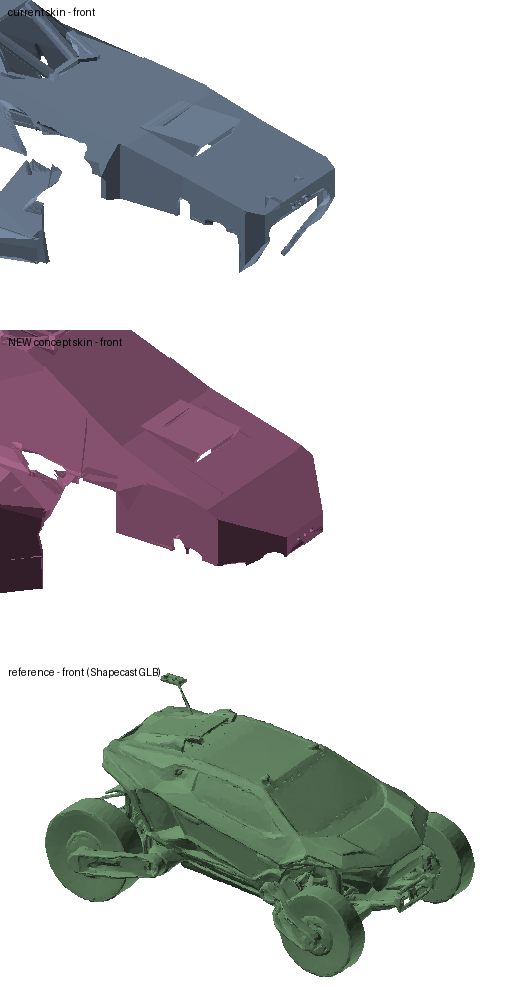
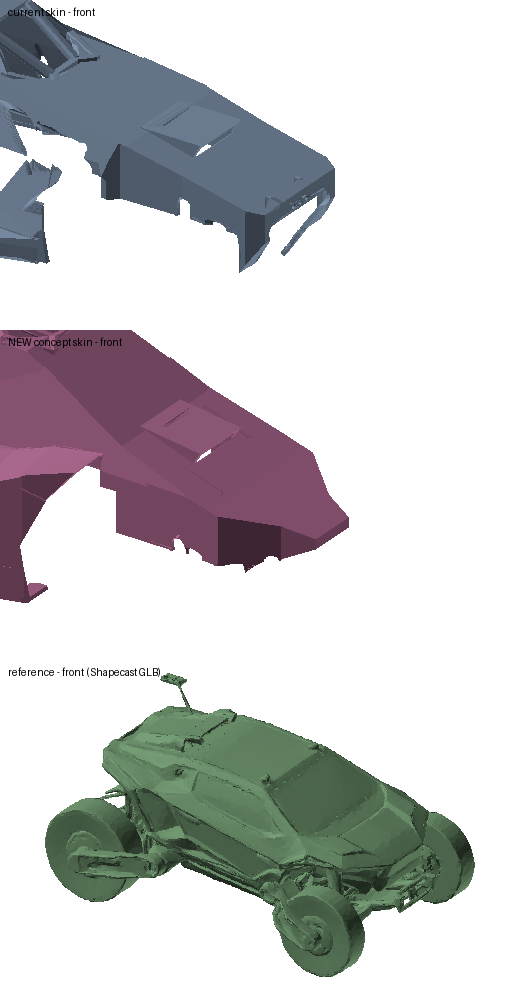
Concept skin rev 4: nose beak to x 55, shoulder shelf from x -85, gap scan; frame/hardware verified unchanged; 132 tests pass, swing clean to 35 deg

Changed region(s): [[0.0, 0.4242, 0.2154, 0.6061], [0.4308, 0.4848, 0.6769, 0.5758], [0.5846, 0.4545, 0.6154, 0.4848]]

diff --git a/ws02/body3_build.py b/ws02/body3_build.py
@@ -37,8 +37,8 @@ SEC_TOP = (35.0, 110.0)                                 # (half width, z) of the
 if CONCEPT:                                           # rev 3: reference silhouette (drawings 54/55, tools_skin/ref_outline.py)
     DECK_DZ = 22.0                                      # the rear deck is this much higher than the old one (the wing is lifted with it)
     TAIL = _pts([(-299.0, 50.0), (-341.5, 66.4)]) + [(-438.1, 83.3 + DECK_DZ)]
-    SIDE = [(34, 40), (34, 27), NOSE_LOW] + ARC + TAIL[1:] + [(-327.0, 100.4 + DECK_DZ), (-290.0, 130.0), (-151.0, 124.0), (-72.0, 84.0), (-5.0, 62.0)]   # low raked nose, raked windscreen, tall cabin roof, high hunched deck
-    HALF = [(34, 20), (3.5, 52), (-52, 52), (-123, 60), (-150, 90), (-205, 92)] + HALF[7:]      # chisel nose, narrow hood over the arm sweep, shoulder flare behind it, flat wide pods
+    SIDE = [(55, 44), (55, 37), (34, 27), NOSE_LOW] + ARC + TAIL[1:] + [(-327.0, 100.4 + DECK_DZ), (-290.0, 130.0), (-151.0, 124.0), (-72.0, 84.0), (-5.0, 62.0)]   # low raked nose, raked windscreen, tall cabin roof, high hunched deck
+    HALF = [(55, 18), (34, 26), (3.5, 52), (-52, 52), (-123, 60), (-150, 90), (-205, 92)] + HALF[7:]      # chisel nose, narrow hood over the arm sweep, shoulder flare behind it, flat wide pods
     TENT_K = 30.0 / 139.3                               # steeper flanks: 38 mm half width still at z 130
     SEC_TOP = (68.0 - TENT_K * 144.3, 135.0)
     SECTION = [(-68, -40), (68, -40), (68, -9.3), (SEC_TOP[0], SEC_TOP[1]), (-SEC_TOP[0], SEC_TOP[1]), (-68, -9.3)]
@@ -94,7 +94,7 @@ def _hull_sections(xs, polys):
 POD = [(-122.0, 68.0, -9.3), (-176.0, 86.0, -9.0), (-293.0, 70.0, -11.0), (-365.0, 76.5, -15.0), (-382.0, 62.0, -15.0)]   # side pod stations (x, outer |y|, top z): the waist line peaks at x -176, flares out at the rear and tapers down
 SHOULDER = dict(stations=[(-440.0, 1.0), (-300.0, 1.0), (-120.0, 0.25)], z0=50.0, z1=58.0, depth=6.0)
 if CONCEPT:
-    POD = [(-123.0, 62.0, 30.0), (-150.0, 92.0, 46.0), (-205.0, 92.0, 50.0), (-293.0, 92.0, 52.0), (-335.0, 86.0, 46.0), (-365.0, 76.5, -15.0), (-382.0, 62.0, -15.0)]   # rear pods with a shoulder plane at z 46..52
+    POD = [(-85.0, 66.0, 76.0), (-123.0, 84.0, 70.0), (-150.0, 92.0, 60.0), (-205.0, 92.0, 52.0), (-293.0, 92.0, 52.0), (-335.0, 86.0, 46.0), (-365.0, 76.5, -15.0), (-382.0, 62.0, -15.0)]   # rear pods with a shoulder plane stepping down from the cowl (arm arches are cut out of it by the window cut)
 
 if CONCEPT:
     SHOULDER = dict(stations=[(-440.0, 1.0), (-250.0, 1.0), (-100.0, 0.3)], z0=50.0, z1=58.0, depth=6.0)   # shoulder crease: full at the rear, tapering to nothing toward the front

diff --git a/ws02/tools_skin/render_compare.py b/ws02/tools_skin/render_compare.py
@@ -130,6 +130,14 @@ def main(out):
         rows.append(f"| {x} | {hc:.0f} | {hn:.0f} | {R.half(x):.0f} | {zc:.0f} | {zn:.0f} | {R.top(x):.0f} |")
     for nm, m in (("current", cur), ("new", con)):
         e = m.bounds; rows.append(f"| bbox {nm} | L {e[1][0]-e[0][0]:.0f} W {e[1][1]-e[0][1]:.0f} H {e[1][2]-e[0][2]:.0f} | | | | | |")
+    def summ(m):
+        v = m.vertices; k = v[(v[:, 0] < -150) & (v[:, 0] > -290)]; d = v[(v[:, 0] < -380) & (v[:, 0] > -420)]
+        return dict(L=np.ptp(v[:, 0]), W=np.ptp(v[:, 1]), H=v[:, 2].max() + 26.0, nose=v[:, 0].max(), canopy=k[:, 2].max(), deck=d[:, 2].max())
+    sc_, sn_ = summ(cur), summ(con)
+    ref_ = dict(L=55 + 468, W=182, H=130 + 26.0, nose=55, canopy=130, deck=R.top(-400))
+    rows += ["", "| dimension (mm) | before | new | reference |", "|---|---|---|---|"]
+    for key, nm in (("L", "length"), ("W", "width"), ("H", "height above floor"), ("nose", "nose tip x"), ("canopy", "canopy top z"), ("deck", "deck z at x -400")):
+        rows.append(f"| {nm} | {sc_[key]:.0f} | {sn_[key]:.0f} | {ref_[key]:.0f} |")
     open(out / "table.md", "w").write(chr(10).join(rows)); print(chr(10).join(rows))
 
 

diff --git a/ws02/WS03_CLEARANCE.md b/ws02/WS03_CLEARANCE.md
@@ -2,98 +2,98 @@
 
 Poses: lean/steer [(0.0, 0.0), (20.0, 17.0), (-20.0, -17.0)]. Pairs closer than 0.3 mm that are not declared as mated:
 
-- mock_cdiff_ring / w3_cring_hub: 0.00 mm
-- w3_motor_plate / b_motor: 0.00 mm
 - w3_rring_hub / b_rear_ring: 0.00 mm
+- mock_cdiff_ring / w3_cring_hub: 0.00 mm
 - mock_cdiff_carrier / w3_cring_hub: 0.01 mm
-- w3_skid / w3_ballast_carrier: 0.01 mm
+- w3_frame_front / w3_uplink_standoff_1: 0.01 mm
 - w3_pillow_lower / w3_pillow_upper: 0.01 mm
-- battery_tray_c / b_battery: 0.02 mm
-- w3_frame_front / w3_uplink_standoff_1: 0.02 mm
-- lean_mount_c / lean_horn_c: 0.02 mm
-- lean_mount_c / w3_deck_front: 0.02 mm
-- lean_mount_c / lean_ears_c: 0.02 mm
-- w3_rbc_lower / w3_rbc_upper: 0.02 mm
-- w3_deck_front / w3_deck_rear: 0.03 mm
-- w3_fdc_lower / w3_fdc_upper: 0.03 mm
+- w3_motor_plate / b_motor: 0.01 mm
+- lean_mount_c / lean_ears_c: 0.01 mm
+- battery_tray_c / b_battery: 0.01 mm
+- w3_skid / w3_ballast_carrier: 0.02 mm
+- w3_cdc_lower / w3_cdc_upper: 0.03 mm
 - w3_frame_front / w3_uplink_standoff_-1: 0.03 mm
-- battery_tray_c / w3_deck_front: 0.03 mm
-- w3_tail_main / w3_tail_right: 0.04 mm
-- body3_mid / body3_rear: 0.05 mm
-- w3_cdc_lower / w3_cdc_upper: 0.05 mm
+- w3_rbc_lower / w3_rbc_upper: 0.03 mm
+- w3_fdc_lower / w3_fdc_upper: 0.04 mm
 - w3_cring_hub / b_front_pinion_shaft: 0.05 mm
-- w3_deck_rear / w3_deck_tail: 0.06 mm
-- body3_front / body3_mid: 0.07 mm
-- w3_frame_front / w3_frame_rear: 0.07 mm
-- mock_bearing_x / w3_cdc_upper: 0.08 mm
-- mock_bearing_ry / w3_rbc_lower: 0.08 mm
-- mock_bearing_x / w3_fdc_lower: 0.08 mm
-- mock_bearing_x / w3_cdc_lower: 0.08 mm
+- w3_deck_rear / w3_deck_tail: 0.05 mm
+- battery_tray_c / w3_deck_front: 0.06 mm
+- lean_mount_c / lean_horn_c: 0.06 mm
+- lean_mount_c / w3_deck_front: 0.06 mm
+- arm_-1 / mock_fbelt_-1: 0.07 mm
+- w3_rring_hub / b_rear_shaft: 0.07 mm
+- w3_tail_main / w3_tail_right: 0.07 mm
+- w3_deck_front / w3_deck_rear: 0.08 mm
+- mock_bearing_x / w3_fdc_upper: 0.08 mm
 - mock_bearing_x / w3_pillow_lower: 0.08 mm
-- w3_deck_tail / w3_frame_rear: 0.08 mm
-- mock_bearing_x / w3_pillow_upper: 0.08 mm
 - mock_bearing_ry / w3_rbc_upper: 0.08 mm
-- mock_bearing_x / w3_rbc_upper: 0.08 mm
-- mock_bearing_fy / w3_fdc_lower: 0.09 mm
-- mock_bearing_x / w3_fdc_upper: 0.09 mm
+- mock_bearing_x / w3_fdc_lower: 0.08 mm
+- mock_bearing_fy / w3_fdc_lower: 0.08 mm
+- mock_bearing_ry / w3_rbc_lower: 0.08 mm
+- mock_bearing_x / w3_pillow_upper: 0.08 mm
+- mock_bearing_x / w3_cdc_lower: 0.08 mm
+- mock_bearing_x / w3_cdc_upper: 0.08 mm
+- mock_bearing_fy / w3_fdc_upper: 0.08 mm
 - mock_bearing_x / w3_rbc_lower: 0.09 mm
-- mock_bearing_fy / w3_fdc_upper: 0.09 mm
-- w3_deck_rear / w3_frame_rear: 0.09 mm
-- w3_rring_hub / b_rear_shaft: 0.10 mm
-- uplink_1 / w3_uplink_standoff_1: 0.10 mm
+- mock_bearing_x / w3_rbc_upper: 0.09 mm
+- w3_deck_front / w3_frame_front: 0.10 mm
 - uplink_-1 / w3_uplink_standoff_-1: 0.10 mm
+- uplink_1 / w3_uplink_standoff_1: 0.10 mm
 - battery_tray_c / w3_fdc_lower: 0.10 mm
-- arm_1 / mock_fbelt_1: 0.11 mm
-- w3_tail_hanger_left / body3_rear: 0.11 mm
-- w3_fdc_lower / w3_frame_front: 0.11 mm
-- arm_-1 / mock_fbelt_-1: 0.12 mm
-- arm_-1 / pod_-1: 0.12 mm
-- w3_rbc_lower / w3_frame_rear: 0.13 mm
+- w3_tail_hanger_right / body3_rear: 0.12 mm
+- steer_servo_-1 / w3_frame_front: 0.13 mm
+- arm_-1 / pod_-1: 0.13 mm
 - arm_1 / pod_1: 0.14 mm
-- w3_tail_hanger_right / body3_rear: 0.14 mm
-- w3_tail_main / w3_tail_hanger_left: 0.15 mm
+- w3_tail_hanger_left / body3_rear: 0.14 mm
+- w3_tail_main / w3_tail_hanger_left: 0.14 mm
+- steer_servo_1 / w3_frame_front: 0.15 mm
 - w3_tail_main / w3_tail_hanger_right: 0.15 mm
-- steer_servo_-1 / w3_frame_front: 0.17 mm
-- steer_servo_1 / w3_frame_front: 0.19 mm
+- w3_frame_front / w3_frame_rear: 0.18 mm
+- w3_fdc_lower / w3_frame_front: 0.20 mm
 - mock_bearing_x / w3_cring_hub: 0.20 mm
-- w3_pillow_upper / b_rear_shaft: 0.20 mm
+- arm_1 / mock_fbelt_1: 0.20 mm
+- w3_rbc_lower / w3_frame_rear: 0.20 mm
+- mock_xover_pin_Pa / w3_cdc_upper: 0.20 mm
 - w3_deck_front / w3_skid: 0.20 mm
+- w3_fdc_upper / b_front_pinion_shaft: 0.20 mm
 - w3_pillow_lower / b_rear_shaft: 0.20 mm
-- w3_cdc_upper / b_rear_shaft: 0.20 mm
-- w3_rbc_lower / b_rear_shaft: 0.20 mm
-- w3_deck_front / w3_frame_front: 0.20 mm
-- mock_xover_pin_Pa / w3_cdc_upper: 0.21 mm
-- w3_fdc_upper / b_front_pinion_shaft: 0.21 mm
-- w3_fdc_lower / b_front_pinion_shaft: 0.21 mm
-- w3_rbc_upper / b_rear_shaft: 0.21 mm
-- mock_xover_pin_Pb / w3_cdc_upper: 0.21 mm
-- w3_cdc_upper / b_front_pinion_shaft: 0.21 mm
-- w3_cdc_lower / b_rear_shaft: 0.21 mm
+- w3_pillow_upper / b_rear_shaft: 0.20 mm
+- w3_fdc_lower / b_front_pinion_shaft: 0.20 mm
+- steer_servo_-1 / w3_deck_front: 0.20 mm
 - w3_cdc_upper / b_motor_shaft: 0.21 mm
-- steer_servo_-1 / w3_deck_front: 0.21 mm
-- w3_cdc_lower / b_front_pinion_shaft: 0.22 mm
+- w3_rbc_upper / b_rear_shaft: 0.21 mm
+- w3_rbc_lower / b_rear_shaft: 0.21 mm
+- steer_servo_1 / w3_deck_front: 0.21 mm
+- w3_cdc_lower / b_front_pinion_shaft: 0.21 mm
+- w3_cdc_lower / b_rear_shaft: 0.21 mm
+- w3_deck_rear / w3_frame_rear: 0.21 mm
 - mock_rear_axle / w3_rear_arm: 0.22 mm
-- arm_-1 / mock_fpulley_pivot_-1: 0.25 mm
-- arm_1 / mock_fpulley_pivot_1: 0.25 mm
+- w3_cdc_upper / b_rear_shaft: 0.22 mm
+- w3_cdc_upper / b_front_pinion_shaft: 0.22 mm
+- mock_xover_pin_Pb / w3_cdc_upper: 0.22 mm
+- w3_deck_tail / w3_frame_rear: 0.22 mm
+- battery_tray_c / w3_frame_front: 0.24 mm
 - mock_rear_pulley_pivot / w3_rear_arm: 0.25 mm
-- mock_rear_pulley_axle / w3_rear_arm: 0.25 mm
-- arm_1 / mock_fpulley_tip_1: 0.25 mm
 - arm_-1 / mock_fpulley_tip_-1: 0.25 mm
-- steer_servo_1 / w3_deck_front: 0.26 mm
+- mock_rear_pulley_axle / w3_rear_arm: 0.25 mm
+- arm_1 / mock_fpulley_pivot_1: 0.25 mm
+- arm_1 / mock_fpulley_tip_1: 0.25 mm
+- arm_-1 / mock_fpulley_pivot_-1: 0.25 mm
+- w3_rear_arm / b_rear_shock: 0.30 mm
 
 Pairs checked: 343. Smallest 12 clearances:
 
-- mock_cdiff_ring / w3_cring_hub: 0.00 mm
-- w3_motor_plate / b_motor: 0.00 mm
 - w3_rring_hub / b_rear_ring: 0.00 mm
+- mock_cdiff_ring / w3_cring_hub: 0.00 mm
 - mock_cdiff_carrier / w3_cring_hub: 0.01 mm
-- w3_skid / w3_ballast_carrier: 0.01 mm
+- w3_frame_front / w3_uplink_standoff_1: 0.01 mm
 - w3_pillow_lower / w3_pillow_upper: 0.01 mm
-- battery_tray_c / b_battery: 0.02 mm
-- w3_frame_front / w3_uplink_standoff_1: 0.02 mm
-- lean_mount_c / lean_horn_c: 0.02 mm
-- lean_mount_c / w3_deck_front: 0.02 mm
-- lean_mount_c / lean_ears_c: 0.02 mm
-- w3_rbc_lower / w3_rbc_upper: 0.02 mm
+- w3_motor_plate / b_motor: 0.01 mm
+- lean_mount_c / lean_ears_c: 0.01 mm
+- battery_tray_c / b_battery: 0.01 mm
+- w3_skid / w3_ballast_carrier: 0.02 mm
+- w3_cdc_lower / w3_cdc_upper: 0.03 mm
+- w3_frame_front / w3_uplink_standoff_-1: 0.03 mm
+- w3_rbc_lower / w3_rbc_upper: 0.03 mm
 
 STL files that are not a single watertight body: none

diff --git a/ws02/WS03_SHELL_CONCEPT.md b/ws02/WS03_SHELL_CONCEPT.md
@@ -47,3 +47,30 @@ Skin pieces: 186 g -> 277 g; all printed parts 848 -> 940 g; total 2392 g, front
 Checks: pieces watertight and bed-sized (tallest piece 164 mm); swing sweep 0..35 deg at 1 deg: 0 hits; 132 tests pass (WS-03, drive, strength, balance), 1 xfail; clearance clean; thin-wall sample under 1.2 mm: 2.7 % (current 2.4 %).
 Pre-existing failures, also on a4c6502: tests/test_w3.py::test_strength_factors (singular FE matrix) and tests/test_assembly.py (legacy chassis).
 Hardpoints that cannot move: the front lean/steer linkage envelope (arms, uplinks, tie rods reach z 125 at x -30 and y 100), so the skin over x +15..-123 stays 52 mm half width (ref 60..90); the ref front shoulders there would sit inside the swinging arms.
+
+## Rev 4 - skin leads (frame and hardware untouched)
+Verified: frame, chassis, arm, drive and every other w3 part build byte-identical with and without WS03_SKIN=concept; only the wing hangers differ (the wing is 22 mm higher on the taller deck). parts/ differs from a4c6502 only in w3_tail.py (DECK_DZ).
+New this rev: nose beak to x 55 (ref 55) with an 18 mm half-width chisel tip; shoulder shelf from x -85 (z 76) stepping down to z 52 at x -205, half-width 75 at x -105 (arm arches are cut out of it by the window cut); gap scan: inner roof is 25-76 mm above the tallest internal part at every 40 mm station (13 mm only at the beak tip, x 40, ahead of any hardware; 19 mm over the hinge lug).
+| x | half-width cur | new | ref | top z cur | new | ref |
+|---|---|---|---|---|---|---|
+| 30 | nan | 29 | 38 | nan | 51 | 57 |
+| 0 | 44 | 52 | 60 | 48 | 61 | 72 |
+| -52 | 46 | 52 | 85 | 64 | 83 | 81 |
+| -105 | 52 | 75 | 90 | 68 | 101 | 101 |
+| -200 | 83 | 92 | 91 | 101 | 135 | 126 |
+| -290 | 70 | 92 | 91 | 95 | 130 | 130 |
+| -350 | 54 | 60 | 81 | 97 | 119 | 122 |
+| -400 | 49 | 49 | 40 | 89 | 111 | 111 |
+| bbox current | L 468 W 172 H 136 | | | | | |
+| bbox new | L 493 W 184 H 164 | | | | | |
+
+| dimension (mm) | before | new | reference |
+|---|---|---|---|
+| length | 468 | 493 | 523 |
+| width | 172 | 184 | 182 |
+| height above floor | 136 | 164 | 156 |
+| nose tip x | 30 | 55 | 55 |
+| canopy top z | 110 | 138 | 130 |
+| deck z at x -400 | 90 | 112 | 111 |
+Skin 283 g (was 186), all printed 946 g, total 2398 g. 132 tests pass (+1 xfail); clearance clean; swing 0 hits 0..35 deg at 1 deg; pieces watertight, largest 220 x 184 x 154 (no extra split needed); wall sample under 1.2 mm: 2.0 % (current 2.4 %).
+Still short of the reference: front shoulders at x -52 (52 vs 85 mm, 33 mm short) and x -105 (75 vs 90), because the lean linkage swings to z 120 at x -40 inside y 52..115; tail ends x -438 (ref -468, 30 mm short) at the rear wheel arch limit; top-view tail taper 49 vs 40 mm at x -400.

diff --git a/ws02/WS03_MASS_CG.md b/ws02/WS03_MASS_CG.md
@@ -4,25 +4,25 @@ Printed mass = 1.2 mm walls plus 25% infill (15% for the body); bought masses ar
 
 | item | value |
 |---|---|
-| printed_g | 940 |
+| printed_g | 946 |
 | bought_g | 1367 |
 | misc_g | 85.0 |
-| total_g | 2392 |
-| cg_mm | [-163.7, 1.2, 14.2] |
-| front_weight_fraction | 0.636 |
-| cg_height_above_ground_mm | 55.7 |
+| total_g | 2398 |
+| cg_mm | [-163.3, 1.2, 14.3] |
+| front_weight_fraction | 0.637 |
+| cg_height_above_ground_mm | 55.8 |
 | static_roll_angle_deg | 67.5 |
-| rollover_speed_1m_radius_mps | 4.87 |
+| rollover_speed_1m_radius_mps | 4.86 |
 
 Heaviest items:
 
 - b_motor: 201 g
 - b_battery: 125 g
-- body3_mid: 108 g
+- body3_mid: 109 g
 - mock_rear_tire_ring: 95 g
 - mock_tire_1: 95 g
 - mock_tire_-1: 95 g
-- body3_front: 89 g
+- body3_front: 95 g
 - body3_rear: 80 g
 - w3_frame_rear: 63 g
 - w3_rear_arm: 62 g
@@ -31,10 +31,10 @@ Heaviest items:
 
 | step | front % | gain (points) | total g | CG x, y, z (mm) | CG height above ground |
 |---|---|---|---|---|---|
-| 0 merged baseline (120 g pack, small masses at the centroid) | 62.17 |  | 2355 | -170.2, 1.3, 16.4 | 57.9 |
-| 1 battery: 125 g pack, x unchanged (forward limit is only 1.5 mm) | 62.23 | +0.06 | 2360 | -170.0, 1.2, 16.4 | 57.9 |
-| 2 small masses placed from an inventory (receiver already at x -44) | 62.43 | +0.19 | 2360 | -169.1, 1.2, 16.3 | 57.8 |
-| 3 sideways CG: no move needed (|y| < 2 mm) | 62.43 | +0.00 | 2360 | -169.1, 1.2, 16.3 | 57.8 |
-| 4a wing and tail infill 25 % to 8 % | 62.95 | +0.52 | 2340 | -166.7, 1.2, 15.3 | 56.8 |
-| 5 nose ballast plate 42 g tungsten + 8 g carrier (FINAL BUILD) | 63.62 | +0.67 | 2392 | -163.7, 1.2, 14.2 | 55.7 |
-| option on top: lighter rear tyre insert, -15 g (estimate, not in the build; could replace about 20 g of ballast) | 64.02 | +0.40 | 2377 | -161.9, 1.2, 14.5 | 56.0 |
+| 0 merged baseline (120 g pack, small masses at the centroid) | 62.27 |  | 2362 | -169.8, 1.3, 16.5 | 58.0 |
+| 1 battery: 125 g pack, x unchanged (forward limit is only 1.5 mm) | 62.33 | +0.06 | 2367 | -169.5, 1.2, 16.5 | 58.0 |
+| 2 small masses placed from an inventory (receiver already at x -44) | 62.52 | +0.19 | 2367 | -168.7, 1.2, 16.4 | 57.9 |
+| 3 sideways CG: no move needed (|y| < 2 mm) | 62.52 | +0.00 | 2367 | -168.7, 1.2, 16.4 | 57.9 |
+| 4a wing and tail infill 25 % to 8 % | 63.05 | +0.52 | 2347 | -166.3, 1.2, 15.4 | 56.9 |
+| 5 nose ballast plate 42 g tungsten + 8 g carrier (FINAL BUILD) | 63.71 | +0.66 | 2398 | -163.3, 1.2, 14.3 | 55.8 |
+| option on top: lighter rear tyre insert, -15 g (estimate, not in the build; could replace about 20 g of ballast) | 64.11 | +0.40 | 2383 | -161.5, 1.2, 14.6 | 56.1 |
